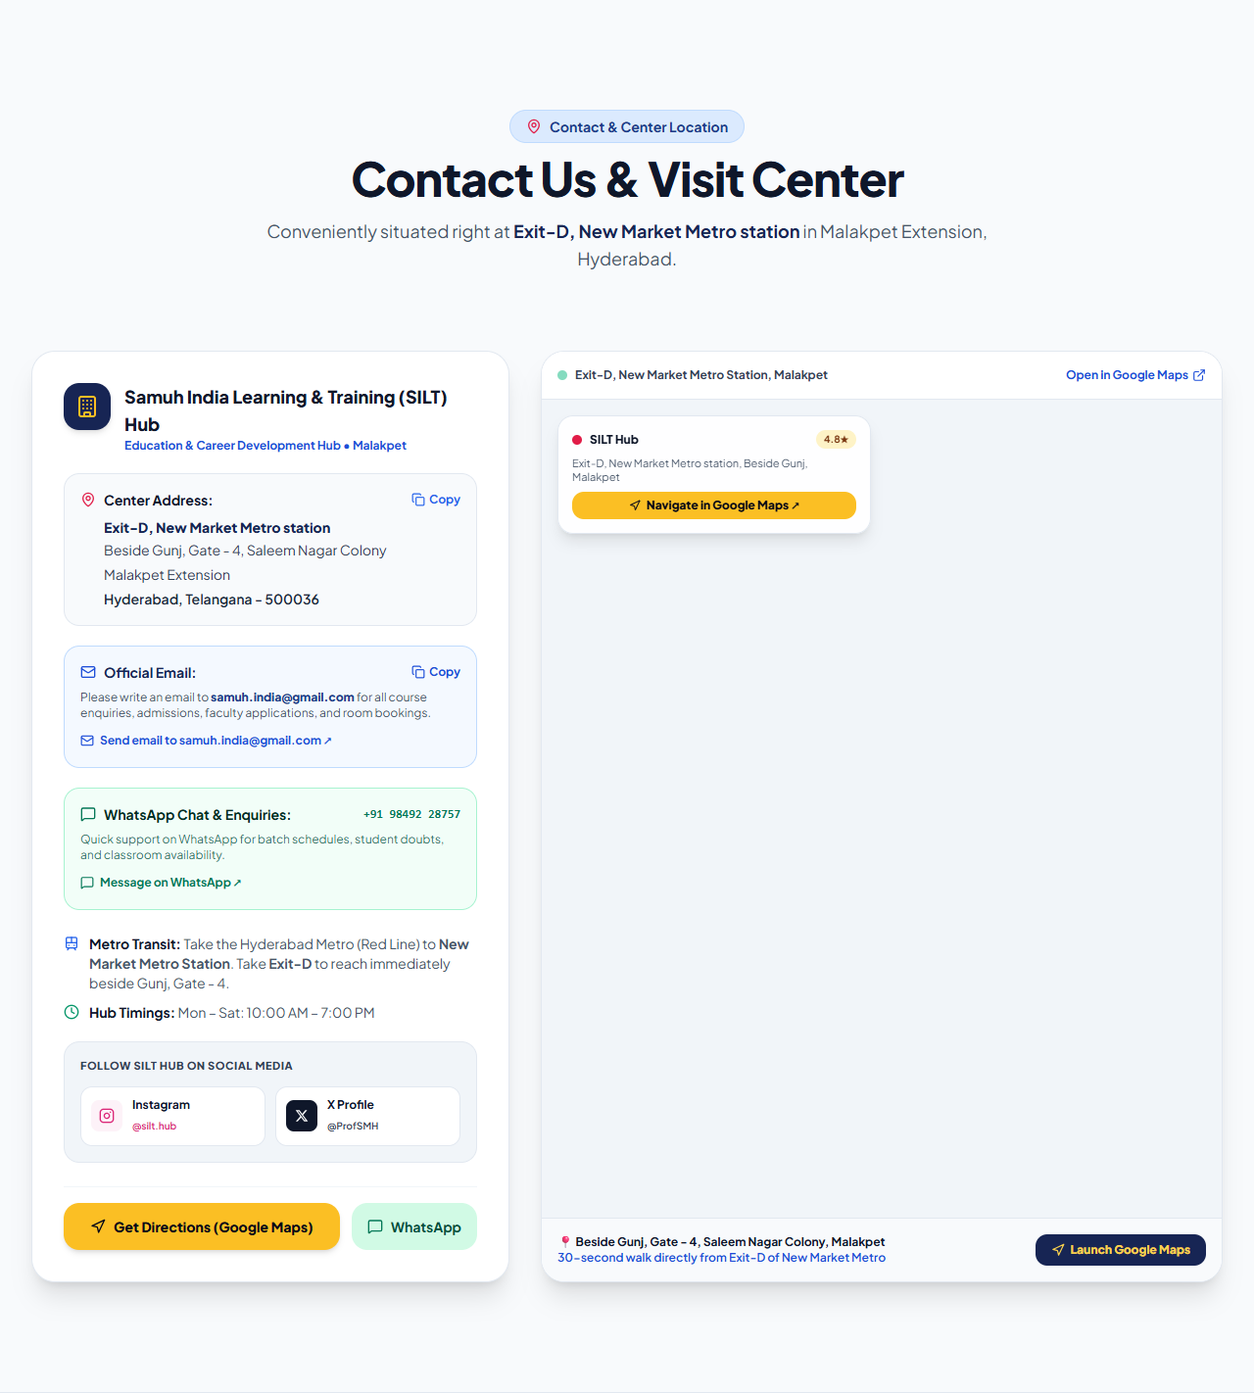
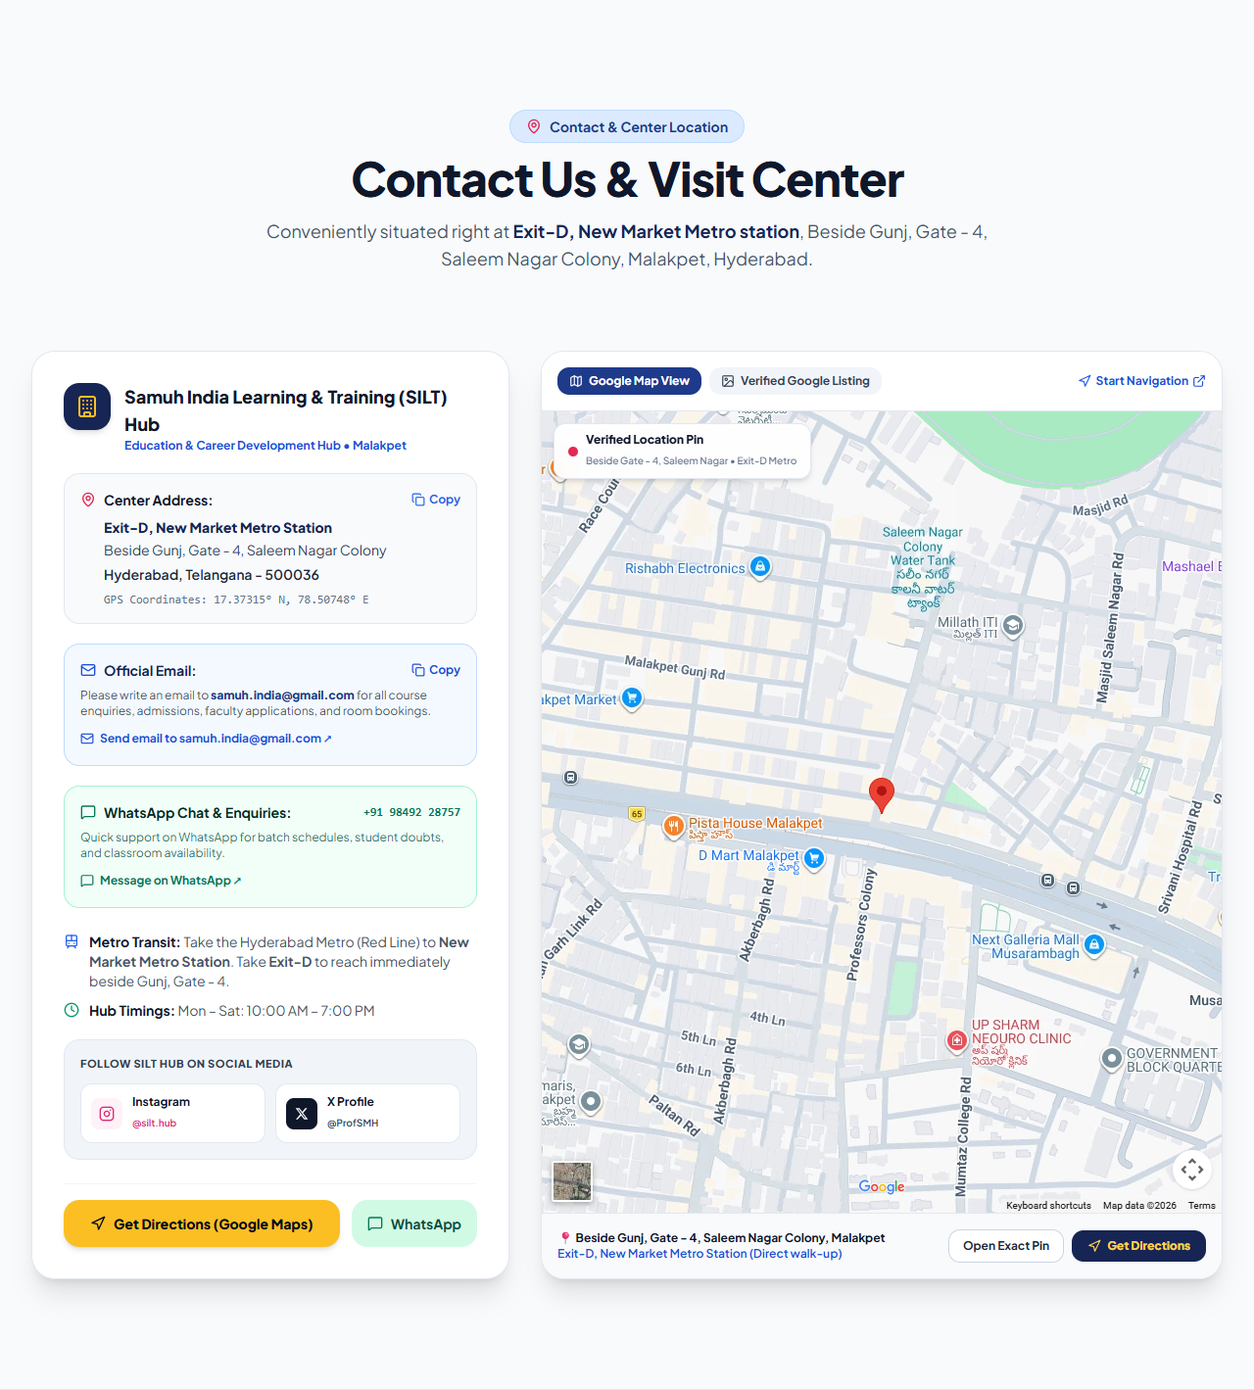
Fix map location pin to Gate-4 Saleem Nagar and update Metro landmark to Exit-D New Market Metro station

diff --git a/src/components/LocationSection.jsx b/src/components/LocationSection.jsx
@@ -17,8 +17,9 @@ import {
 import {
   businessInfo,
   GOOGLE_MAPS_URL,
-  GOOGLE_MAPS_PLACE_URL,
-  GOOGLE_MAPS_EMBED_URL
+  GOOGLE_MAPS_DIRECTIONS_URL,
+  GOOGLE_MAPS_EMBED_URL,
+  HUB_COORDINATES
 } from '../data/hubData';
 
 export default function LocationSection() {
@@ -54,7 +55,7 @@ export default function LocationSection() {
           </h2>
 
           <p className="mt-4 text-base sm:text-lg text-slate-600">
-            Conveniently situated in Malakpet, Hyderabad — just a <strong className="text-blue-950 font-bold">10-minute walk (approx. 500 m) from Exit-D, New Market Metro station</strong>.
+            Conveniently situated right at <strong className="text-blue-950 font-bold">Exit-D, New Market Metro station</strong>, Beside Gunj, Gate - 4, Saleem Nagar Colony, Malakpet, Hyderabad.
           </p>
         </div>
 
@@ -110,10 +111,12 @@ export default function LocationSection() {
                   <p className="font-black text-blue-950 text-sm">
                     {businessInfo.address.metro}
                   </p>
-                  <p>{businessInfo.address.line2}</p>
-                  <p>{businessInfo.address.line3}</p>
+                  <p>{businessInfo.address.line1}</p>
                   <p className="font-semibold text-slate-800">
                     {businessInfo.address.city}, {businessInfo.address.state} - {businessInfo.address.pincode}
+                  </p>
+                  <p className="text-xs text-slate-500 pt-1 font-mono">
+                    GPS Coordinates: {HUB_COORDINATES.lat}° N, {HUB_COORDINATES.lng}° E
                   </p>
                 </div>
               </div>
@@ -197,7 +200,7 @@ export default function LocationSection() {
                   <Train className="w-4 h-4 text-blue-600 shrink-0 mt-0.5" />
                   <div>
                     <strong className="text-slate-900">Metro Transit: </strong>
-                    Take the Hyderabad Metro (Red Line) to <strong>New Market Metro Station</strong>. From <strong>Exit-D</strong>, take an easy 10-minute walk (approx. 500 m) to Beside Gunj, Gate - 4, Saleem Nagar Colony.
+                    Take the Hyderabad Metro (Red Line) to <strong>New Market Metro Station</strong>. Take <strong>Exit-D</strong> to reach immediately beside Gunj, Gate - 4.
                   </div>
                 </div>
 
@@ -262,7 +265,7 @@ export default function LocationSection() {
             {/* Quick Action Buttons */}
             <div className="pt-4 border-t border-slate-100 flex flex-col sm:flex-row gap-3">
               <a
-                href={GOOGLE_MAPS_URL}
+                href={GOOGLE_MAPS_DIRECTIONS_URL}
                 target="_blank"
                 rel="noopener noreferrer"
                 className="flex-1 inline-flex items-center justify-center gap-2 px-5 py-3.5 rounded-2xl text-xs sm:text-sm font-black text-slate-950 bg-amber-400 hover:bg-amber-300 active:scale-95 transition-all shadow-md"
@@ -284,7 +287,7 @@ export default function LocationSection() {
 
           </div>
 
-          {/* Right Column: Interactive Map & Verified Google Profile Card */}
+          {/* Right Column: Real Google Maps with Exact Red Pin + Listing Card Toggle */}
           <div className="lg:col-span-7 flex flex-col rounded-3xl overflow-hidden border border-slate-200 shadow-xl bg-white min-h-[440px]">
             
             {/* Top Bar for Map with Tabs */}
@@ -300,7 +303,7 @@ export default function LocationSection() {
                   }`}
                 >
                   <MapIcon className="w-3.5 h-3.5" />
-                  <span>Map View</span>
+                  <span>Google Map View</span>
                 </button>
 
                 <button
@@ -319,56 +322,49 @@ export default function LocationSection() {
 
               <div className="flex items-center gap-3">
                 <a
-                  href={GOOGLE_MAPS_URL}
+                  href={GOOGLE_MAPS_DIRECTIONS_URL}
                   target="_blank"
                   rel="noopener noreferrer"
                   className="text-blue-700 hover:underline inline-flex items-center gap-1 font-bold"
                 >
-                  <span>Open in Google Maps</span>
+                  <Navigation className="w-3.5 h-3.5 text-blue-600" />
+                  <span>Start Navigation</span>
                   <ExternalLink className="w-3.5 h-3.5" />
                 </a>
               </div>
             </div>
 
             {/* View Body */}
-            <div className="flex-1 relative w-full min-h-[360px] bg-slate-100">
+            <div className="flex-1 relative w-full min-h-[380px] bg-slate-100">
               {mapTab === 'embed' ? (
                 <>
                   <iframe
-                    title="SAMUH INDIA Learning & Training Hub Location Map"
+                    title="SAMUH INDIA Learning & Training Hub Exact Location Pin"
                     src={GOOGLE_MAPS_EMBED_URL}
                     width="100%"
                     height="100%"
-                    style={{ border: 0, minHeight: '360px' }}
+                    style={{ border: 0, minHeight: '380px' }}
                     allowFullScreen=""
-                    loading="lazy"
+                    loading="eager"
                     referrerPolicy="no-referrer-when-downgrade"
-                    className="w-full h-full min-h-[360px]"
+                    className="w-full h-full min-h-[380px]"
                   />
 
-                  {/* Floating Action Card over Map */}
-                  <div className="absolute top-4 left-4 right-4 sm:right-auto sm:max-w-xs bg-white/95 backdrop-blur-md p-3.5 rounded-2xl shadow-lg border border-slate-200 text-left space-y-2 pointer-events-auto">
-                    <div className="flex items-center gap-2">
-                      <span className="w-2.5 h-2.5 rounded-full bg-rose-600"></span>
-                      <span className="text-xs font-black text-slate-900">{businessInfo.shortName}</span>
-                      <span className="text-[10px] bg-amber-100 text-amber-900 font-bold px-2 py-0.5 rounded-full ml-auto">4.8★</span>
+                  {/* Compact Bottom-Left Badge for Pin Confirmation */}
+                  <div className="absolute top-3 left-3 bg-white/95 backdrop-blur-md px-3.5 py-2 rounded-xl shadow-md border border-slate-200 text-left flex items-center gap-2 pointer-events-auto">
+                    <span className="w-2.5 h-2.5 rounded-full bg-rose-600 animate-pulse"></span>
+                    <div>
+                      <span className="text-xs font-black text-slate-900 block leading-tight">
+                        Verified Location Pin
+                      </span>
+                      <span className="text-[10px] text-slate-500 font-medium">
+                        Beside Gate - 4, Saleem Nagar • Exit-D Metro
+                      </span>
                     </div>
-                    <p className="text-[11px] text-slate-600 leading-tight">
-                      Beside Gunj, Gate - 4, Saleem Nagar, Malakpet (10-min walk / 500 m from Exit-D Metro)
-                    </p>
-                    <a
-                      href={GOOGLE_MAPS_URL}
-                      target="_blank"
-                      rel="noopener noreferrer"
-                      className="w-full inline-flex items-center justify-center gap-1.5 px-3 py-1.5 rounded-xl text-xs font-black bg-amber-400 hover:bg-amber-300 text-slate-950 transition-colors shadow-xs"
-                    >
-                      <Navigation className="w-3 h-3" />
-                      <span>Navigate in Google Maps ↗</span>
-                    </a>
                   </div>
                 </>
               ) : (
-                <div className="w-full h-full min-h-[360px] p-4 flex items-center justify-center bg-slate-900">
+                <div className="w-full h-full min-h-[380px] p-4 flex items-center justify-center bg-slate-900">
                   <div className="relative max-w-sm rounded-2xl overflow-hidden shadow-2xl border border-white/20">
                     <img
                       src="/images/google-maps-card.png"
@@ -376,14 +372,15 @@ export default function LocationSection() {
                       className="w-full h-auto object-cover"
                     />
                     <div className="p-3 bg-white text-slate-900 flex items-center justify-between">
-                      <span className="text-xs font-black">Google Verified Profile</span>
+                      <span className="text-xs font-black">Google Verified Profile (4.8★)</span>
                       <a
-                        href={GOOGLE_MAPS_URL}
+                        href={GOOGLE_MAPS_DIRECTIONS_URL}
                         target="_blank"
                         rel="noopener noreferrer"
-                        className="px-3 py-1 rounded-xl text-xs font-black bg-amber-400 hover:bg-amber-300 text-slate-950"
+                        className="px-3 py-1 rounded-xl text-xs font-black bg-amber-400 hover:bg-amber-300 text-slate-950 inline-flex items-center gap-1"
                       >
-                        Open Maps
+                        <Navigation className="w-3 h-3" />
+                        <span>Directions</span>
                       </a>
                     </div>
                   </div>
@@ -391,14 +388,14 @@ export default function LocationSection() {
               )}
             </div>
 
-            {/* Bottom info strip with Metro directions and reliable Maps button */}
+            {/* Bottom info strip with Metro directions and reliable Maps buttons */}
             <div className="p-4 bg-slate-50 border-t border-slate-200 flex flex-col sm:flex-row items-center justify-between gap-3 text-xs text-slate-600">
               <div className="text-left space-y-0.5">
                 <span className="font-bold text-slate-900 block">
                   📍 Beside Gunj, Gate - 4, Saleem Nagar Colony, Malakpet
                 </span>
                 <span className="text-blue-700 font-semibold">
-                  10-minute walk (approx. 500 m) from Exit-D of New Market Metro
+                  Exit-D, New Market Metro Station (Direct walk-up)
                 </span>
               </div>
 
@@ -407,10 +404,19 @@ export default function LocationSection() {
                   href={GOOGLE_MAPS_URL}
                   target="_blank"
                   rel="noopener noreferrer"
-                  className="shrink-0 inline-flex items-center gap-1.5 px-4 py-2 rounded-xl text-xs font-black bg-blue-950 text-amber-300 hover:bg-blue-900 transition-colors shadow-xs"
+                  className="px-3.5 py-2 rounded-xl text-xs font-bold text-slate-800 bg-white hover:bg-slate-100 border border-slate-300 transition-colors shadow-xs"
+                >
+                  <span>Open Exact Pin</span>
+                </a>
+
+                <a
+                  href={GOOGLE_MAPS_DIRECTIONS_URL}
+                  target="_blank"
+                  rel="noopener noreferrer"
+                  className="inline-flex items-center gap-1.5 px-4 py-2 rounded-xl text-xs font-black bg-blue-950 text-amber-300 hover:bg-blue-900 transition-colors shadow-xs"
                 >
                   <Navigation className="w-3.5 h-3.5" />
-                  <span>Launch Google Maps</span>
+                  <span>Get Directions</span>
                 </a>
               </div>
             </div>

diff --git a/src/data/hubData.js b/src/data/hubData.js
@@ -8,10 +8,17 @@ export const FACULTY_REGISTRATION_FORM_URL = "https://forms.gle/ECdK7qZhB1R6WVP2
 export const CLASSROOM_RENTAL_FORM_URL = "https://forms.gle/b3M4xQ1Vjqx4WypB7";
 export const GOOGLE_FORM_URL = STUDENT_REGISTRATION_FORM_URL;
 
-// Robust, universal Google Maps URLs that open directly in Google Maps on all devices
-export const GOOGLE_MAPS_URL = "https://www.google.com/maps/search/?api=1&query=17.3748%2C78.5055";
-export const GOOGLE_MAPS_PLACE_URL = "https://www.google.com/maps/place/17%C2%B022'29.3%22N+78%C2%B030'19.8%22E/@17.3748,78.5055,17z";
-export const GOOGLE_MAPS_EMBED_URL = "https://www.openstreetmap.org/export/embed.html?bbox=78.4980%2C17.3705%2C78.5090%2C17.3785&layer=mapnik&marker=17.3748%2C78.5055";
+// Exact coordinates matching the user's verified location (at red arrow: beside Gate-4, Saleem Nagar Colony)
+export const HUB_COORDINATES = {
+  lat: 17.37315,
+  lng: 78.50748
+};
+
+// Robust, exact Google Maps URLs that open directly in Google Maps app / web at the true location
+export const GOOGLE_MAPS_URL = `https://www.google.com/maps?q=${HUB_COORDINATES.lat},${HUB_COORDINATES.lng}`;
+export const GOOGLE_MAPS_DIRECTIONS_URL = `https://www.google.com/maps/dir/?api=1&destination=${HUB_COORDINATES.lat},${HUB_COORDINATES.lng}`;
+export const GOOGLE_MAPS_PLACE_URL = `https://www.google.com/maps/search/?api=1&query=${HUB_COORDINATES.lat},${HUB_COORDINATES.lng}`;
+export const GOOGLE_MAPS_EMBED_URL = `https://maps.google.com/maps?q=${HUB_COORDINATES.lat},${HUB_COORDINATES.lng}&hl=en&z=17&output=embed`;
 
 export const businessInfo = {
   name: "Samuh India Learning & Training (SILT) Hub",
@@ -51,8 +58,10 @@ export const businessInfo = {
   classroomRentalFormUrl: CLASSROOM_RENTAL_FORM_URL,
   googleFormUrl: STUDENT_REGISTRATION_FORM_URL,
   googleMapsUrl: GOOGLE_MAPS_URL,
+  googleMapsDirectionsUrl: GOOGLE_MAPS_DIRECTIONS_URL,
   googleMapsPlaceUrl: GOOGLE_MAPS_PLACE_URL,
   googleMapsEmbedUrl: GOOGLE_MAPS_EMBED_URL,
+  coordinates: HUB_COORDINATES,
 
   // Skill Training & Placement Initiative (Free & Chargeable)
   skillCourseOffer: {
@@ -100,17 +109,17 @@ export const businessInfo = {
     ]
   },
 
-  // Address - Located ~500 m / 10-min walk from Exit-D, New Market Metro Station
+  // Address - Exit-D, New Market Metro Station, Beside Gunj Gate-4
   address: {
-    metro: "Near Exit-D, New Market Metro Station (10-Min Walk / ~500 m)",
+    metro: "Exit-D, New Market Metro Station",
     line1: "Beside Gunj, Gate - 4, Saleem Nagar Colony",
     line2: "Beside Gunj, Gate - 4, Saleem Nagar Colony",
     line3: "Malakpet",
     city: "Hyderabad",
     state: "Telangana",
     pincode: "500036",
-    full: "Beside Gunj, Gate - 4, Saleem Nagar Colony, Malakpet, Hyderabad, Telangana 500036 (10-min walk / ~500 m from Exit-D, New Market Metro)",
-    landmark: "Beside Gunj, Gate - 4, Saleem Nagar Colony (~500 m / 10-min walk from Exit-D of New Market Metro Station)"
+    full: "Exit-D, New Market Metro Station, Beside Gunj, Gate - 4, Saleem Nagar Colony, Malakpet, Hyderabad, Telangana 500036",
+    landmark: "Beside Gunj, Gate - 4, Saleem Nagar Colony, Exit-D of New Market Metro Station"
   },
 
   // Rating

diff --git a/src/components/Hero.jsx b/src/components/Hero.jsx
@@ -1,5 +1,5 @@
 import React from 'react';
-import { Mail, MessageSquare, ExternalLink, Star, MapPin, CheckCircle2, Sparkles, GraduationCap, Users, Building2, Eye, Gift } from 'lucide-react';
+import { Mail, MessageSquare, ExternalLink, Star, MapPin, CheckCircle2, Sparkles, GraduationCap, Users, Building2, Eye, Gift, Train } from 'lucide-react';
 import { businessInfo, STUDENT_REGISTRATION_FORM_URL } from '../data/hubData';
 
 export default function Hero({ onOpenFlyerModal }) {
@@ -25,13 +25,16 @@ export default function Hero({ onOpenFlyerModal }) {
           {/* Left Column: Headline, Copy & CTAs */}
           <div className="lg:col-span-7 space-y-6 text-left">
             
-            {/* Badges Row - Explicitly showing Exit-D, New Market Metro station */}
-            <div className="inline-flex flex-wrap items-center gap-2.5">
+            {/* Location & Trust Badges */}
+            <div className="flex flex-wrap items-center gap-2.5">
               <div className="inline-flex items-center gap-2 px-3.5 py-1.5 rounded-full bg-blue-100/90 border border-blue-200 text-blue-950 text-xs sm:text-sm font-bold shadow-xs">
                 <span className="flex h-2 w-2 rounded-full bg-blue-600 animate-pulse" />
                 <span>Malakpet, Hyderabad</span>
-                <span className="text-blue-300">•</span>
-                <strong className="text-blue-900 font-extrabold">10-Min Walk from Metro Exit-D (~500 m)</strong>
+              </div>
+
+              <div className="inline-flex items-center gap-2 px-3.5 py-1.5 rounded-full bg-blue-50 border border-blue-300 text-blue-950 text-xs sm:text-sm font-black shadow-xs">
+                <Train className="w-3.5 h-3.5 text-blue-700 shrink-0" />
+                <span>New Market Metro station Exit-D</span>
               </div>
 
               <div className="inline-flex items-center gap-1.5 px-3.5 py-1.5 rounded-full bg-amber-50 border border-amber-300 text-amber-900 text-xs sm:text-sm font-bold">
@@ -178,7 +181,7 @@ export default function Hero({ onOpenFlyerModal }) {
               </div>
               <div className="flex items-center gap-2">
                 <CheckCircle2 className="w-4 h-4 text-blue-700 shrink-0" />
-                <span>10-Min Walk from Metro Exit-D</span>
+                <span>Exit-D, New Market Metro</span>
               </div>
             </div>
 

diff --git a/src/components/ClassroomRentalSection.jsx b/src/components/ClassroomRentalSection.jsx
@@ -84,7 +84,7 @@ export default function ClassroomRentalSection({ onOpenFlyerModal }) {
           </h2>
 
           <p className="mt-4 text-base sm:text-lg text-blue-100 max-w-2xl mx-auto leading-relaxed">
-            Classroom sizes engineered for better concentration and faculty - students interaction. All together, 120 to 150 students can accommodate in a single slot at SILT Hub, a 10-minute walk (~500 m) from Exit-D, New Market Metro station.
+            Classroom sizes engineered for better concentration and faculty - students interaction. All together, 120 to 150 students can accommodate in a single slot at SILT Hub, Exit-D, New Market Metro station.
           </p>
         </div>
 
@@ -144,7 +144,7 @@ export default function ClassroomRentalSection({ onOpenFlyerModal }) {
               <div className="absolute bottom-4 left-4 right-4 flex items-center justify-between gap-2 p-3 rounded-2xl bg-white/95 backdrop-blur-md text-slate-900 shadow-md">
                 <div className="text-left">
                   <span className="text-[10px] font-black uppercase tracking-wider text-blue-800 block">
-                    10-Min Walk From Metro Exit-D
+                    Exit-D, New Market Metro
                   </span>
                   <p className="text-xs sm:text-sm font-black text-slate-900">
                     Classrooms (10-30 Students)
@@ -266,7 +266,7 @@ export default function ClassroomRentalSection({ onOpenFlyerModal }) {
                 <Wifi className="w-4 h-4 text-amber-300" /> High-Speed Wi-Fi
               </span>
               <span className="flex items-center gap-1.5">
-                <MapPin className="w-4 h-4 text-amber-300" /> 10-Min Walk from Metro Exit-D
+                <MapPin className="w-4 h-4 text-amber-300" /> Exit-D, New Market Metro
               </span>
             </div>
 

diff --git a/capture-new-sections.js b/capture-new-sections.js
@@ -1,7 +1,7 @@
 import puppeteer from 'puppeteer-core';
 
 const EDGE_PATH = 'C:\\Program Files (x86)\\Microsoft\\Edge\\Application\\msedge.exe';
-const URL = 'http://localhost:5173/';
+const URL = process.env.TEST_URL || 'http://localhost:5174/';
 
 async function capture() {
   const browser = await puppeteer.launch({
@@ -24,7 +24,11 @@ async function capture() {
   if (s3) await s3.screenshot({ path: 'public/images/test-segment3.png' });
 
   const s4 = await page.$('#contact');
-  if (s4) await s4.screenshot({ path: 'public/images/test-contact.png' });
+  if (s4) {
+    await page.evaluate(() => document.querySelector('#contact').scrollIntoView());
+    await new Promise(r => setTimeout(r, 4500));
+    await s4.screenshot({ path: 'public/images/test-contact.png' });
+  }
 
   await browser.close();
   console.log('✓ All segment screenshots saved');

diff --git a/src/components/TopNoticeTicker.jsx b/src/components/TopNoticeTicker.jsx
@@ -7,7 +7,7 @@ export default function TopNoticeTicker() {
     { text: "Admissions Open for 2026-27 Batches — Higher School (9th-10th), Intermediate (CBSE / ICSE / State Board) & Higher Studies", highlight: true },
     { text: "Career Skilling: Select Free Skill Training & Placement Modules + Advanced IT Tracks", highlight: false },
     { text: "Classrooms on Rent Available for Faculty & Institutes (10 to 30 Student Batch Size • AC & Wi-Fi)", highlight: false },
-    { text: "Location: Beside Gunj, Gate – 4, Saleem Nagar Colony, Malakpet (~500 m / 10-min walk from Exit-D Metro)", highlight: false },
+    { text: "Location: Beside Gunj, Gate – 4, Saleem Nagar Colony, Malakpet (Exit-D, New Market Metro station)", highlight: false },
     { text: "Submit your details online: Google Registration Form is now active", highlight: true },
   ];
 

diff --git a/src/components/WhyChooseUs.jsx b/src/components/WhyChooseUs.jsx
@@ -101,10 +101,10 @@ export default function WhyChooseUs() {
             </div>
             <div className="space-y-1">
               <h4 className="text-lg sm:text-xl font-black text-white">
-                Zero Traffic Hassle: 10-Min Walk from New Market Metro Exit-D
+                Zero Commute Hassle: New Market Metro station Exit-D
               </h4>
               <p className="text-xs sm:text-sm text-slate-300">
-                Easy 10-minute walk (~500 m) from Exit-D, beside Gunj, Gate - 4, Saleem Nagar Colony, Malakpet. Safe, fast, and punctual commute.
+                Immediately beside Gunj, Gate - 4, Saleem Nagar Colony, Malakpet. Safe, fast, and punctual commute.
               </p>
             </div>
           </div>

diff --git a/src/components/ReviewsSection.jsx b/src/components/ReviewsSection.jsx
@@ -105,7 +105,7 @@ export default function ReviewsSection() {
                 </div>
               </div>
               <p className="text-sm text-slate-600 leading-relaxed">
-                "Convenient location just a 10-minute walk from New Market Metro Station Exit-D. Very peaceful, dedicated study atmosphere with supportive teachers and clear step-by-step explanations."
+                "Convenient location right at Exit-D, New Market Metro station. Very peaceful, dedicated study atmosphere with supportive teachers and clear step-by-step explanations."
               </p>
             </div>
 

diff --git a/src/components/FacultyMentorSection.jsx b/src/components/FacultyMentorSection.jsx
@@ -37,7 +37,7 @@ export default function FacultyMentorSection() {
     },
     {
       title: "Disciplined Academic Environment",
-      desc: "Peaceful learning atmosphere a 10-min walk (~500 m) from New Market Metro Exit-D, with complete administrative support."
+      desc: "Peaceful learning atmosphere at Exit-D, New Market Metro station, with complete administrative support."
     }
   ];
 

diff --git a/src/components/TrustStrip.jsx b/src/components/TrustStrip.jsx
@@ -49,7 +49,7 @@ export default function TrustStrip() {
                 Metro Connected
               </span>
               <p className="text-[11px] text-slate-600 font-medium">
-                10-Min Walk (~500 m) from Metro Exit-D
+                Exit-D, New Market Station
               </p>
             </div>
           </div>
